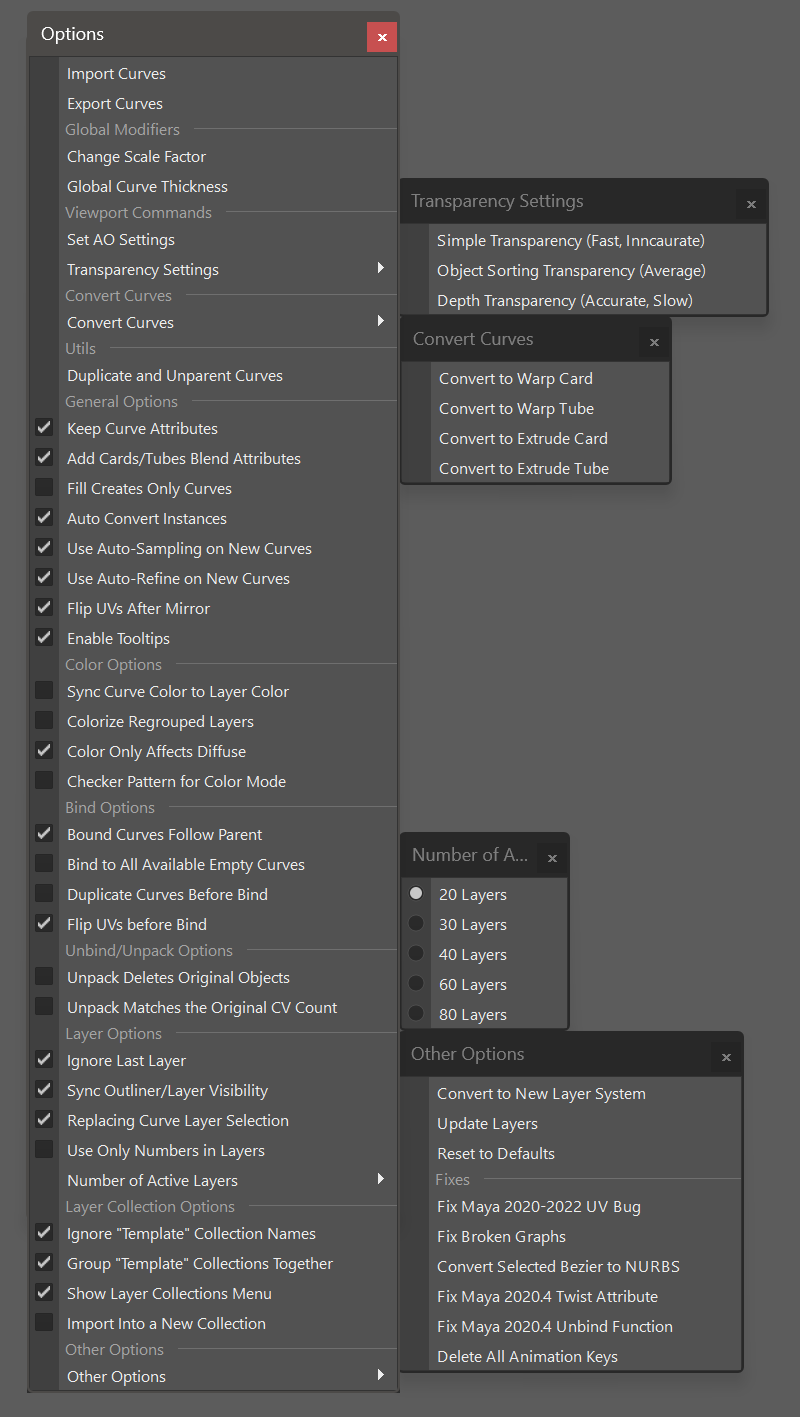
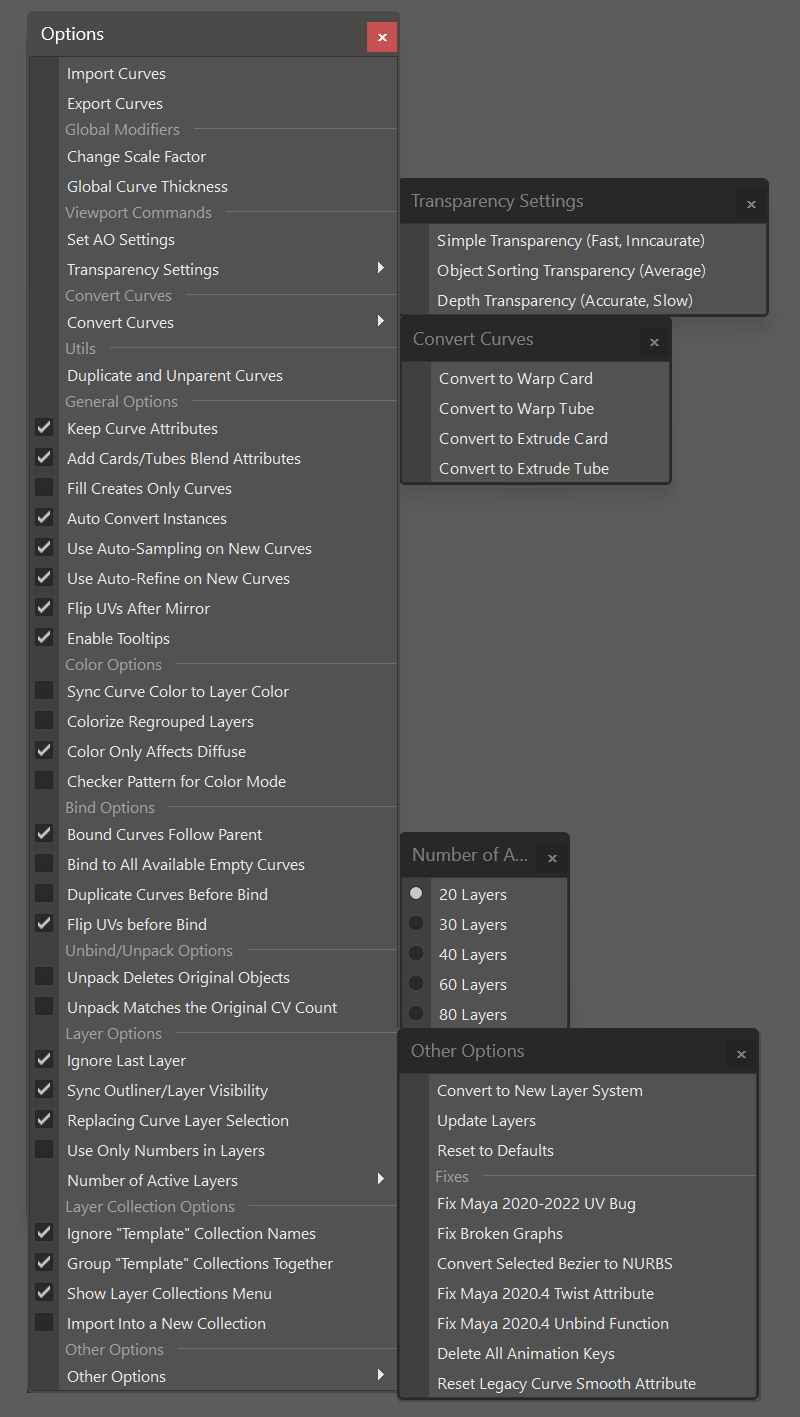
V1.3.3

Changed region(s): [[0.5, 0.7142, 0.9688, 0.9936]]

diff --git a/docs/source/scale-factor-and-precision.rst b/docs/source/scale-factor-and-precision.rst
@@ -1,0 +1,79 @@
+.. currentmodule:: <index>
+
+.. _scale-factor-and-precision:
+
+##########################
+Scale Factor and Precision
+##########################
+
+.. _scale-factor:
+
+Scale Factor
+^^^^^^^^^^^^
+
+.. image:: images/scale_factor_window.png
+  :width: 300px
+  :align: right
+
+The **Scale Factor** determines the initial scale of the curve created by the buttons New Card, New Tube, Curve Card, Curve Tube, Add Cards, and Add Tubes.
+
+This option is crucial if you need to adjust the scale of new curves, mostly the width, to match the Maya scene's scale. Values ranging from 0.25-0.75 are usually a good middle ground for any default Maya scene and any project that uses real-world scale.
+
+.. important::
+  Suppose you import your base mesh, and it's approximately 180 cm tall. In that case, a scale factor value of around 0.5 should generate cards with good width. The length of the cards will change freely based on the length of the curve.
+
+The scale factor is a simple multiplier and ranges from 0.001 to basically infinity. The default limit is 10, but you can manually type bigger values.
+
+.. figure:: images/scale_factor_demo.png
+  :width: 400px
+  :align: center
+  :name: scale-factor-figure
+
+  Using different Scale Factors to generate cards of different sizes
+
+.. note:: Scale Factor will only affect new curves. Old curves will not change when just clicking Save or Save and Close. Scale factor is usually set at the beginning of the project and never touched again, however, user can change it any time he wants during the project and :ref:`Normalize<normalize-scale-factor-and-precision-scale>` all the previously created curves.
+
+There are three number fields: Global, Scene, and Selected. They show the values of the scale factor that is saved globally (Global), in the scene (Scene), and on every new curve.
+
+The scale factor has a priority of Selected ⇨ Scene ⇨ Global. When the user changes the scale factor, it will be saved as scene and global. If the scene has no scale factor set, the global value will be used.
+
+Each curve also has its own scale factor that will have priority over Scene or Global. This value is important when working with curves that have different scale factors (imported or created in the same scene after changing the scale factor).
+
+.. _precision-scale:
+
+Precision Scale
+^^^^^^^^^^^^^^^
+
+.. image:: images/scale_factor_window.png
+  :width: 300px
+  :align: right
+
+
+**Precision Scale** is basically the world scale of the path curve for Warp objects (Cards, Tubes and Bind objects). The reason it is important is because based on this scale Maya will change the deformation precision of the geometry attached to a curve.
+
+Default Maya scale is set as 1.0, but with this value there are significant distortions when working on something small like brows or eyelashes (or even some very small hair details).
+
+Precision Scale slider will set the default new scale of the Warp objects (Cards, Tubes and Bind objects).
+
+Precision Scale is also used when normalizing the existing object during some operations like Add Card, Add Tube and Fill.
+
+Precision Scale value of 0.05 is recommended as it provides with sufficient precision and does not affect viewport performance too much.
+
+.. _normalize-scale-factor-and-precision-scale:
+
+Normalize Scale Factor and Precision Scale
+^^^^^^^^^^^^^^^^^^^^^^^^^^^^^^^^^^^^^^^^^^
+
+.. image:: images/scale_factor_window.png
+  :width: 300px
+  :align: right
+
+
+User can **normalize** any already existing Warp objects (Card, Tube or Bind object) to any chosen Scale Factor and Precision Scale value.
+
+- **Normalize Selected** - will normalize all the selected objects to the chosen Scale Factor and Precision Scale values.
+- **Normalize Selected** to Default - will normalize all the selected objects to the default Scale Factor and Precision values of 0.5 and 0.05 respectively.
+
+Other parameters of the object (width, profile etc.) will be recalculated to match the original shape of the object. Geometry should not change after normalization, other than fixing the deformation caused by insufficient Precision Scale values set before.
+
+Normalization buttons will also save the new values of the Scale Factor and Precision Scale to global preset automatically.

diff --git a/docs/source/options.rst b/docs/source/options.rst
@@ -20,32 +20,15 @@ Import and Export Curves
 Scale Factor
 ^^^^^^^^^^^^
 
-.. image:: images/scale_factor_window.png
-  :width: 300px
+See :ref:`scale-factor-and-precision`
 
-The scale factor determines the initial scale of the curve created by the buttons New Card, New Tube, Curve Card, Curve Tube, Add Cards, and Add Tubes.
 
-This option is crucial if you need to adjust the scale of new curves, mostly the width, to match the Maya scene's scale. Values ranging from 0.5-1 are usually a good middle ground for any default Maya scene and any project that uses real-world scale.
+Precision Scale
+^^^^^^^^^^^^^^^
 
-.. important::
-  Suppose you import your base mesh, and it's approximately 180 cm tall. In that case, a scale factor value of around 0.75 should generate cards with good width. The length of the cards will change freely based on the length of the curve.
+See :ref:`precision-scale`
 
-The scale factor is a simple multiplier and ranges from 0.001 to basically infinity. The default limit is 10, but you can manually type bigger values.
 
-.. figure:: images/scale_factor_demo.png
-  :width: 400px
-  :align: center
-  :name: scale-factor-figure
-
-  Using different Scale Factors to generate cards of different sizes
-
-.. note:: Scale Factor will only affect new curves. Old curves will not change.
-
-There are three number fields: Global, Scene, and Selected. They show the values of the scale factor that is saved globally (Global), in the scene (Scene), and on every new curve.
-
-The scale factor has a priority of Selected ⇨ Scene ⇨ Global. When the user changes the scale factor, it will be saved as scene and global. If the scene has no scale factor set, the global value will be used.
-
-Each curve also has its own scale factor that will have priority over Scene or Global. This value is important when working with curves that have different scale factors (imported or created in the same scene after changing the scale factor).
 
 Global Curve Thickness
 ^^^^^^^^^^^^^^^^^^^^^^
@@ -177,3 +160,4 @@ Other Options
 - **Fix Maya 2020.4 Twist Attribute** This function will fix any broken cards created in Maya 2020.4 before v1.2.2 update.
 - **Fix Maya 2020.4 Unbind Function** This function will fix any cards that are not unbinding properly created before v1.2.3 update in Maya 2020.4.
 - **Delete All Animation Keys** will delete all animation keys from the curves in the scene. Might fix duplication and other deformation issues.
+- **Reset Legacy Curve Smooth Attribute** will reset the now deprecated curve smooth attribute to 0. Useful, because the slider is no longer available in the Curve Control Window.

diff --git a/docs/source/changelog.rst b/docs/source/changelog.rst
@@ -4,6 +4,27 @@
 Changelog
 #########
 
+Version 1.3.3
+^^^^^^^^^^^^^
+
+**Improvements:**
+
+- Much less geometry deformation and distortion for new Warp Cards, Tubes and Bind objects when scaling them down to very small scales (like for brows, eyelashes etc.). Improved geometry precision and stability overall.
+- An option to change the new :ref:`Precision Scale<precision-scale>` value in the :ref:`Scale Factor and Precision<scale-factor-and-precision>` window.
+- An option to normalize the :ref:`Scale Factor<scale-factor>` and :ref:`Precision Scale<precision-scale>` of the selected Warp Cards, Tubes or Bind objects to the chosen slider values or to default recommended values (Scale Factor = 0.5, Precision Scale = 0.05). Buttons are found in the Scale Factor and Precision window. Also works on Cards, Tubes and Bind objects from older updates.
+- :ref:`Add Card, Add Tube and Fill<add-cards-button>` functions will now use the new Precision Scale and normalize the selected Warp Cards, Tubes or Bind objects before performing the operation. This ensures that no matter the initial scale or scale factor of the selected curves, the function will result in a consistent widths and profiles for the new objects. Works on objects from older updates as well.
+- :ref:`Rebuild<rebuild-curve-slider>` slider will now work properly on small scale curves.
+- New objects should now be able to create more sharp corners when three or more CVs are bunched together.
+
+**Deprecation:**
+
+- Smooth slider was removed from the "Other" tab in the :ref:`Curve Control Window<curve-control-window>` (don't confuse with the :ref:`Smooth<smooth>` function from the main window, it's still there). It was removed because it interfered with the new precision options. There is an option in the Options⇨Other menu to reset the smooth value to 0 if needed for older projects.
+
+**Bug fixes:**
+
+- :ref:`Mirror<mirroring>` will now work properly on Tube objects
+- Opening Log file will no longer block Maya until the log is closed.
+
 Version 1.3.2 Hotfix 2
 ^^^^^^^^^^^^^^^^^^^^^^
 

diff --git a/docs/source/import-export.rst b/docs/source/import-export.rst
@@ -41,4 +41,6 @@ Importing Curves is a simple process. Just click on :ref:`Options<options>` ⇨ 
 
 If :ref:`Layer Collections<layer-collections>` are enabled in the scene and :ref:`Import Into a New Collection<importing-into-a-new-collection>` checkbox is enabled in the :ref:`Options<options>` menu, all the import curves will go to "Imported Curves" collection by default. If layer collections are disabled or the checkbox is not checked, all the imported curves will be merged into the Main collection.
 
+.. note:: It might be necessary to :ref:`Normalize<normalize-scale-factor-and-precision-scale>` freshly imported curves before use in a new project. It's only necessary if the original Scale is different from the project's chosen Scale Factor. Same goes for the Precision Scale.
+
 .. warning:: Only files created by using "**Export Curves**" function are compatible with "**Import Curves**" function. Any other file might have unexpected behavior.

diff --git a/docs/source/attributes.rst b/docs/source/attributes.rst
@@ -116,9 +116,6 @@ Main Attributes
   * - **Refine** - Adds additional "virtual" CVs to a curve to achieve additional precision in geometry deformation. Real CVs stay the same. If you see that geometry is not exactly on the curve (this can sometimes happen on long curves), just increase Refine value. **Warning** - High refine values can cause severe performance issues.
     - .. image:: images/attributes/refine.png
         :target: _images/refine.png
-  * - **Smooth** - This attribute (do no confuse it with Smooth Function in the Main Menu) will interactively smooth pinched or highly deformed parts of the curve. Can only be used on manual Refinement modes.
-    - .. image:: images/attributes/smooth.png
-        :target: _images/smooth.png
 
 .. note::
   For UV attributes, please visit :ref:`UVs<uvs>` chapter. It is recommended to use :ref:`UV Editor<uv-editor>` instead of the old UV attributes.

diff --git a/docs/source/utility.rst b/docs/source/utility.rst
@@ -138,6 +138,8 @@ Extend will try to interpolate the next point based on the curvature of the curv
   :align: right
   :width: 250px
 
+.. _smooth:
+
 **Smooth** function will smooth the selected curve or only selected CVs, depending on the selection and Factor slider.
 
 You can smooth multiple curves at the same time.

diff --git a/docs/source/first-steps.rst b/docs/source/first-steps.rst
@@ -129,6 +129,8 @@ Main Menu is split into 5 logical sections:
 .. note:: 
 	Some buttons also have **three horizontal lines** ≡ icon that indicates that this button has marking menu. Holding RMB on that button will open it.
 
+.. _curve-control-window:
+
 Curve Control Window
 ^^^^^^^^^^^^^^^^^^^^
 

diff --git a/docs/source/index.rst b/docs/source/index.rst
@@ -126,6 +126,7 @@ Supported Platforms
 	Orient to Normals <orient-to-normals>
 	Utility Functions <utility>
 	Advanced Visibility <advanced-visibility>
+	Scale Factor and Precision <scale-factor-and-precision>
 	Options Menu <options>
 	Useful Tips <useful-tips>
 	Questions, Issues and Solutions <faq>
